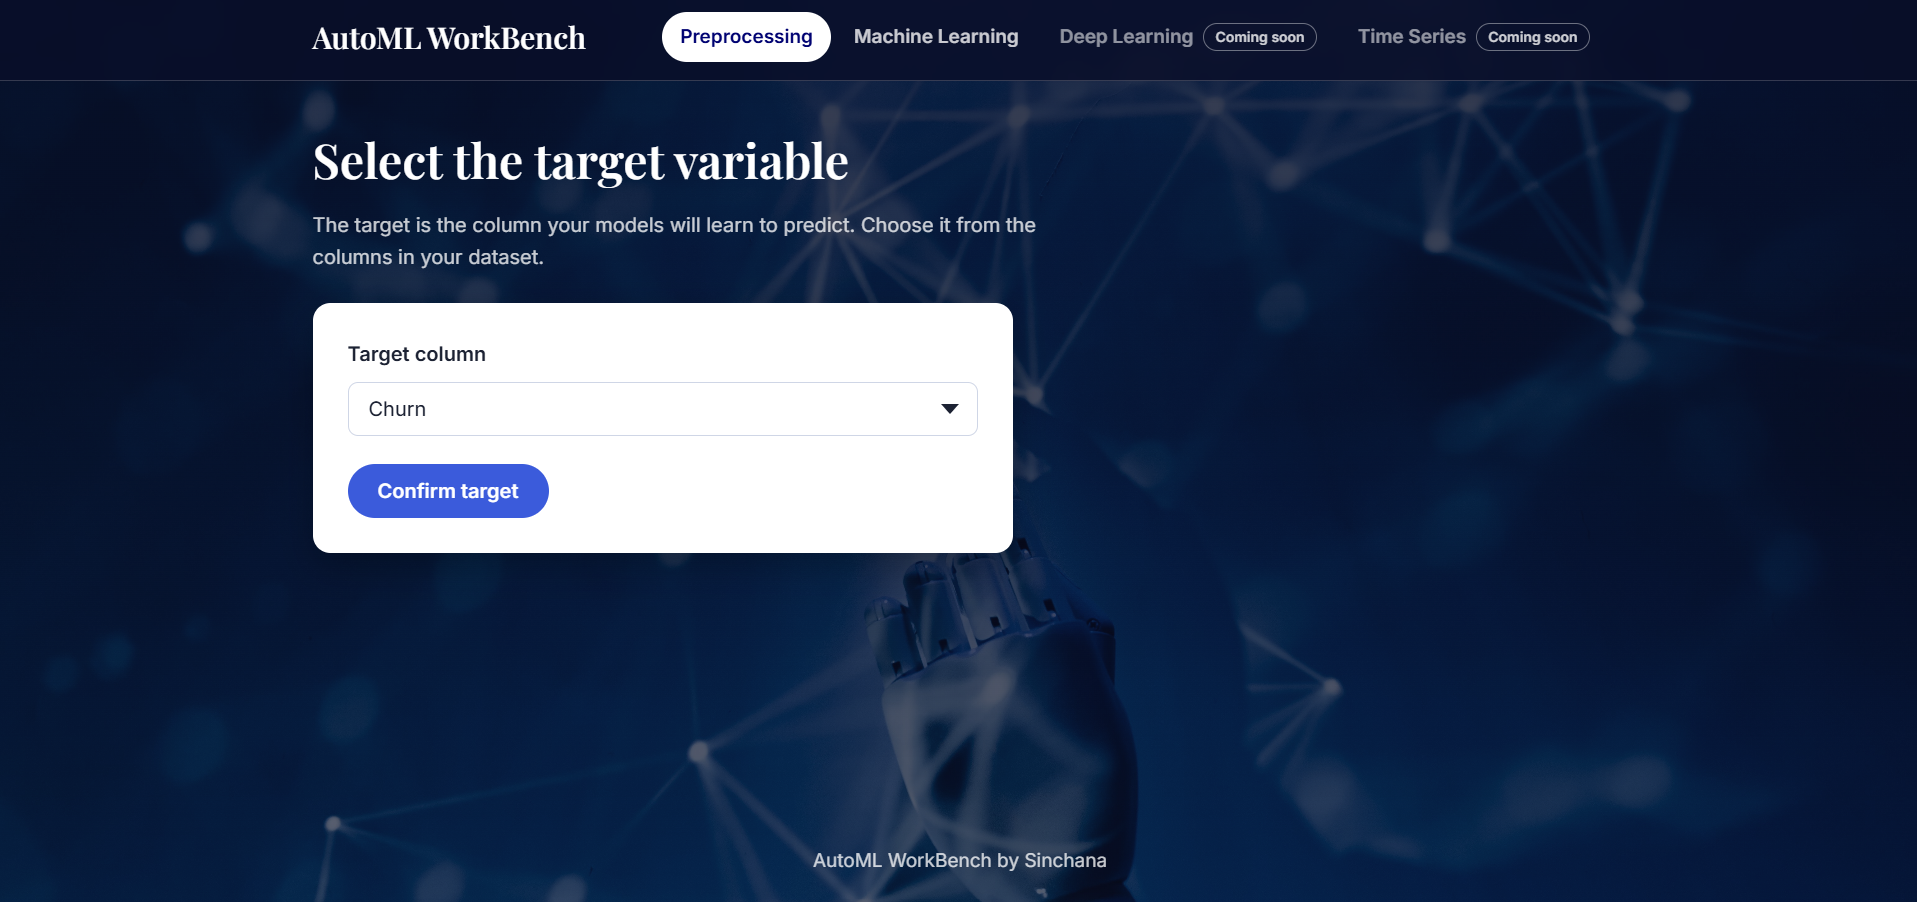
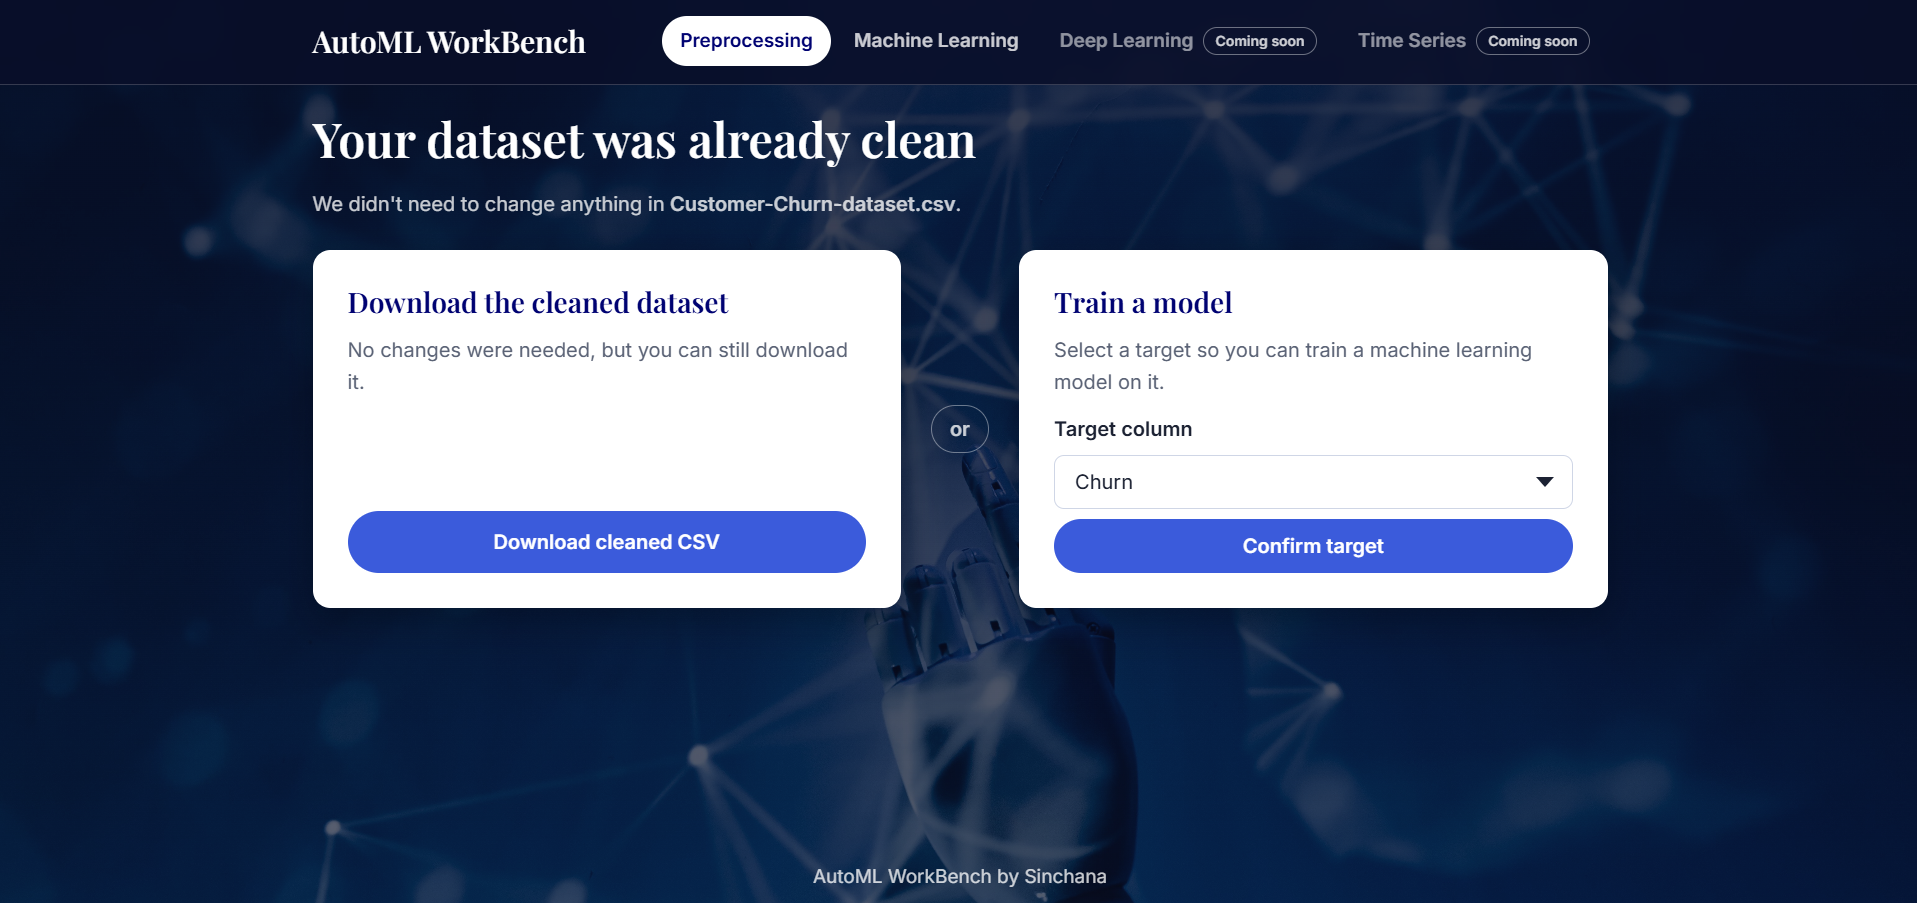
Updated README

diff --git a/README.md b/README.md
@@ -14,7 +14,7 @@ Built as a solo project to go deeper than a single "train one model on one datas
 ![Screenshot of the select target page with a dropdown](screenshots/select-target-page.png)
 **Select target page**
 
-![Screenshot of the results page with dataset name, target column, problem type, model score with the best one highlighted](screenshots/results-page.png)
+![Screenshot of the results page with dataset name, target column, problem type, model score with the best one highlighted](screenshots/result-page.png)
 **Results page**
 
 ## How it works
@@ -79,7 +79,7 @@ Then visit `http://127.0.0.1:5000` in your browser.
 
 ## Roadmap for Enhancements
 
-- [ ] Standalone "clean my dataset" mode : download the cleaned CSV without training a model, with a before/after summary report of what was changed
+- [x] Standalone "clean my dataset" mode : download the cleaned CSV without training a model, with a before/after summary report of what was changed (20/10/2026)
 - [ ] Let users choose preprocessing strategies (e.g. median vs. drop-rows for missing values, one-hot vs. label encoding)
 - [ ] Migrate from Flask to Django
 - [ ] Move from SQLite to a persistent hosted database (e.g. PostgreSQL) for reliable run history in production
